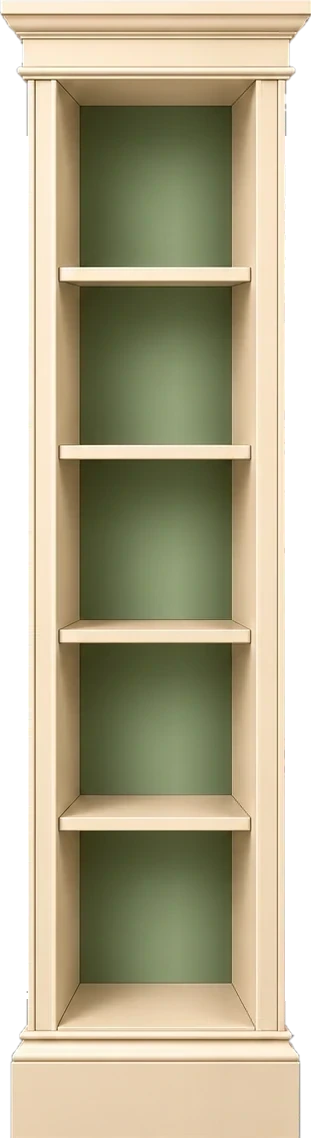
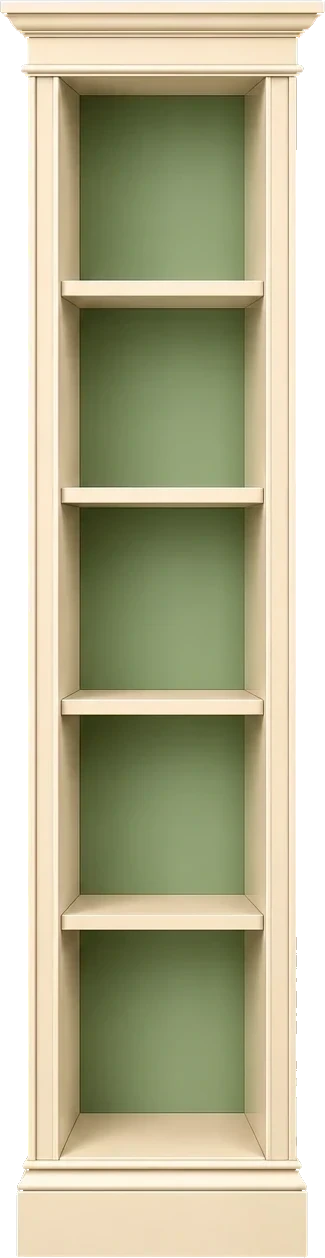
Neues Lady-Regal in der Bauart der Serie, gleich breit wie Gentleman; Gentleman-Papier und -Klemmbrett neu (2.3.3)

diff --git a/index.html b/index.html
@@ -729,7 +729,7 @@ html.theme-retreat .tb-day-head{ color:var(--rt-sage-d); }
   background-repeat:repeat, no-repeat; background-origin:border-box, border-box; background-clip:content-box, border-box; padding:var(--pt) var(--ps) var(--pb); box-sizing:border-box; }
 .tb-page.type-grid:not(.type-titel){ background-image:var(--pat), var(--paper); background-size:auto, auto, 100% 100%; background-position:var(--patp), 0 0; background-repeat:repeat, repeat, no-repeat; background-origin:border-box, border-box, border-box; background-clip:content-box, content-box, border-box; }
 .tb-page.tb-land-page:not(.type-titel){ --pt:calc(84px * var(--tbk)); --pb:calc(84px * var(--tbk)); --ps:calc(64px * var(--tbk)); --paper:url(img/mw2/paper-l.webp); }
-html.theme-biz .tb-page:not(.type-titel){ --paper:url(img/rl2/paper-p.webp); } html.theme-biz .tb-page.tb-land-page:not(.type-titel){ --paper:url(img/rl2/paper-l.webp); }
+html.theme-biz .tb-page:not(.type-titel){ --paper:url(img/rl2/paper2-p.webp); } html.theme-biz .tb-page.tb-land-page:not(.type-titel){ --paper:url(img/rl2/paper2-l.webp); }
 html.theme-retreat .tb-page:not(.type-titel){ --paper:url(img/rt2/paper-p.webp); } html.theme-retreat .tb-page.tb-land-page:not(.type-titel){ --paper:url(img/rt2/paper-l.webp); }
 /* 31.10.2026 (wish of the user): plain paper as a choice per book – the two lines of the design's frame without the ornaments,
    drawn instead of a picture so they stay sharp. Places, widths and colours measured in the paper pictures (mw2/rl2/rt2). */
@@ -2360,7 +2360,7 @@ html.theme-retreat .lib-news{ background:#fffdf8; }
 
 <script>
 /* Bump on every published update, so it's visible at a glance whether the newest version is loaded. */
-const APP_VERSION = '2.3.2';
+const APP_VERSION = '2.3.3';
 /* Design (since 1.80.0, see the small script in <head>): in "Business" (BIZ) the gold paper icons are swapped for plain line
    icons (img/icons-rl/*.svg) wherever they appear – also in everything drawn later – so the rest of the code stays as it is. */
 // A Lady's Conservatory (1.84.0, named so since 1.86.1; key 'retreat' and RETREAT stay): light, cream and forest green; until its own pictures come it uses those of A Gentleman's Study (with the
@@ -7051,9 +7051,11 @@ function habitToggleWeek(id, mondayKey){
    a divider, 3 weekly rows with one wide box. The app only writes the title, the days, the names and the ticks onto it, at the
    places measured in each picture (CLIP_GEO, in % of the picture: box columns and rows, name lines [x0, x1, y], wide boxes
    [x0, x1, y0, y1], the line under the head). The same sheet is the week page in the diary. */
-const CLIP_GEO = {"mw2": {"ar": 0.679, "cols": [51.34, 56.39, 61.47, 66.44, 71.36, 76.36, 81.31], "rows": [37.88, 42.08, 46.31, 50.62, 54.9, 59.22, 63.56, 67.93], "box": 3.66, "names": [[17.21, 46.88, 38.99], [17.21, 46.88, 43.15], [17.21, 46.88, 47.38], [17.21, 46.88, 51.68], [17.21, 46.88, 55.98], [17.21, 46.88, 60.31], [17.21, 46.88, 64.64], [17.31, 46.88, 69.07], [17.21, 46.88, 76.86], [17.31, 46.88, 81.63], [17.21, 46.88, 86.53]], "wide": [[49.46, 82.0, 74.01, 77.37], [49.46, 82.0, 78.78, 82.2], [49.46, 82.0, 83.75, 87.11]], "head": 34.08}, "rl2": {"ar": 0.635, "cols": [52.43, 58.18, 63.87, 69.52, 75.16, 80.85, 86.55], "rows": [33.69, 38.11, 42.5, 46.89, 51.31, 55.79, 60.25, 64.7], "box": 3.9, "names": [[11.71, 47.15, 34.76], [11.71, 47.15, 39.15], [11.71, 47.15, 43.57], [11.71, 47.15, 47.99], [11.71, 47.15, 52.41], [11.71, 47.15, 56.8], [11.71, 47.15, 61.22], [11.71, 47.15, 65.61], [11.71, 47.15, 75.05], [11.71, 47.15, 80.68], [11.71, 47.15, 86.37]], "wide": [[50.32, 88.19, 72.07, 75.95], [50.32, 88.19, 77.63, 81.65], [50.32, 88.19, 83.39, 87.27]], "head": 28.06}, "rt2": {"ar": 0.6275, "cols": [52.19, 58.09, 63.96, 69.73, 75.45, 81.23, 87.06], "rows": [33.52, 37.95, 42.38, 46.74, 51.17, 55.64, 60.1, 64.56], "box": 4.06, "names": [[10.91, 46.31, 34.63], [10.91, 46.31, 38.99], [10.91, 46.31, 43.39], [10.91, 46.31, 47.79], [10.91, 46.31, 52.15], [10.91, 46.31, 56.64], [10.91, 46.31, 61.07], [10.91, 46.31, 65.44], [10.91, 46.2, 74.87], [10.91, 46.2, 80.23], [12.41, 46.2, 85.7]], "wide": [[49.52, 88.88, 71.88, 75.77], [49.52, 88.88, 77.25, 81.14], [49.52, 88.88, 82.82, 86.78]], "head": 28.62}};
+const CLIP_GEO = {"mw2": {"ar": 0.679, "cols": [51.34, 56.39, 61.47, 66.44, 71.36, 76.36, 81.31], "rows": [37.88, 42.08, 46.31, 50.62, 54.9, 59.22, 63.56, 67.93], "box": 3.66, "names": [[17.21, 46.88, 38.99], [17.21, 46.88, 43.15], [17.21, 46.88, 47.38], [17.21, 46.88, 51.68], [17.21, 46.88, 55.98], [17.21, 46.88, 60.31], [17.21, 46.88, 64.64], [17.31, 46.88, 69.07], [17.21, 46.88, 76.86], [17.31, 46.88, 81.63], [17.21, 46.88, 86.53]], "wide": [[49.46, 82.0, 74.01, 77.37], [49.46, 82.0, 78.78, 82.2], [49.46, 82.0, 83.75, 87.11]], "head": 34.08}, "rl2": {"ar": 0.6354, "cols": [52.43, 58.18, 63.86, 69.51, 75.16, 80.85, 86.55], "rows": [33.75, 38.17, 42.56, 46.96, 51.37, 55.86, 60.29, 64.75], "box": 3.9, "names": [[11.71, 47.15, 34.75], [11.71, 47.15, 39.18], [11.71, 47.15, 43.6], [11.71, 47.15, 48.02], [11.71, 47.15, 52.45], [11.71, 47.15, 56.87], [11.71, 47.15, 61.29], [11.71, 47.15, 65.72], [11.71, 47.15, 75.03], [11.71, 47.15, 80.73], [11.71, 47.26, 86.43]], "wide": [[50.21, 88.29, 72.12, 75.94], [50.21, 88.29, 77.68, 81.77], [50.21, 88.29, 83.45, 87.33]], "head": 28.08}, "rt2": {"ar": 0.6275, "cols": [52.19, 58.09, 63.96, 69.73, 75.45, 81.23, 87.06], "rows": [33.52, 37.95, 42.38, 46.74, 51.17, 55.64, 60.1, 64.56], "box": 4.06, "names": [[10.91, 46.31, 34.63], [10.91, 46.31, 38.99], [10.91, 46.31, 43.39], [10.91, 46.31, 47.79], [10.91, 46.31, 52.15], [10.91, 46.31, 56.64], [10.91, 46.31, 61.07], [10.91, 46.31, 65.44], [10.91, 46.2, 74.87], [10.91, 46.2, 80.23], [12.41, 46.2, 85.7]], "wide": [[49.52, 88.88, 71.88, 75.77], [49.52, 88.88, 77.25, 81.14], [49.52, 88.88, 82.82, 86.78]], "head": 28.62}};
 const clipDir = ()=>RETREAT ? 'rt2' : BIZ ? 'rl2' : 'mw2';
-const clipSrc = ()=>'img/' + clipDir() + '/clipboard2.webp';
+const CLIP_FILE = { mw2:'clipboard2', rl2:'clipboard3', rt2:'clipboard2' }; // 1.11.2026: new Gentleman clipboard (new name against old caches)
+const clipName = ()=>clipDir() + '/' + CLIP_FILE[clipDir()];
+const clipSrc = ()=>'img/' + clipName() + '.webp';
 const HB_CHECK = '<svg viewBox="0 0 24 24" aria-hidden="true"><path d="M4 13.5l5 5L20.5 5"/></svg>';
 function habitSheetHtml(monday, pageIdx){
   const d = t(), H = habitsOf(state), g = CLIP_GEO[clipDir()], board = pageIdx === null, lang = state.settings.lang === 'de' ? 'de-DE' : 'en-GB';
@@ -7514,16 +7516,16 @@ function tbSpineHtml(key){
    the narrow book part on the left (NARROW) and the trophy part on the right (SHELVES), cut at the middle post so they join exactly.
    The rows end in the middle of each board; above eye level the board's front edge lies over the trophies (fronts). */
 const SHELF_ROWS2 = [[7.5, 23], [23.9, 39.3], [39.9, 55.8], [56.8, 72.6], [74.2, 89.9]];
-const SHELF_ROWS_RT = [[9.3, 24.4], [24.7, 39.8], [40.1, 55.5], [55.8, 71.4], [71.8, 88]]; // A Lady's Conservatory, cream bookcase (25.10.2026)
+const SHELF_ROWS_RT = [[7.5, 23], [23.5, 39.4], [39.9, 55.4], [55.9, 71.7], [72.2, 89.1]]; // A Lady's Conservatory, cream bookcase of the shelf series (1.11.2026, rt2/shelf3)
 const SHELVES = {
   dusty:{ img:'mw2/shelf-dusty', fronts:'mw2/shelf-dusty-fronts', aspect:501 / 1279, roof:1.8, x:[0.8, 88.4], rows:SHELF_ROWS2 }, // with cobwebs (the first two active days)
   clean:{ img:'mw2/shelf', fronts:'mw2/shelf-fronts', aspect:501 / 1279, roof:1.8, x:[0.8, 88.4], rows:SHELF_ROWS2 },
   ivy:{ img:'mw2/shelf-ivy', fronts:'mw2/shelf-ivy-fronts', aspect:501 / 1280, roof:1.8, x:[0.8, 88.4], rows:SHELF_ROWS2 },
   rl:RETREAT
-    ? { img:'rt2/shelf', fronts:'rt2/shelf-fronts', aspect:640 / 1138, roof:1.8, x:[2.5, 87.7], rows:SHELF_ROWS_RT } // 25.10.2026: cream and green
+    ? { img:'rt2/shelf3', fronts:'rt2/shelf3-fronts', aspect:496 / 1258, roof:1.8, x:[0.8, 88.5], rows:SHELF_ROWS_RT } // 1.11.2026: cream and green, same perspective and width as the other bookcases
     : { img:'rl2/shelf', fronts:'rl2/shelf-fronts', aspect:504 / 1278, roof:1.8, x:[0.8, 89.3], rows:SHELF_ROWS2 },
   rlPlant:{ img:'rl2/shelf-plant', fronts:'rl2/shelf-plant-fronts', aspect:480 / 1279, roof:1.8, x:[0.8, 88.8], rows:SHELF_ROWS2 }, // A Gentleman's Study from level 3: with the monstera
-  rtPlain:{ img:'rt2/shelf', fronts:'rt2/shelf-fronts', aspect:640 / 1138, roof:1.8, x:[2.5, 87.7], rows:SHELF_ROWS_RT }
+  rtPlain:{ img:'rt2/shelf3', fronts:'rt2/shelf3-fronts', aspect:496 / 1258, roof:1.8, x:[0.8, 88.5], rows:SHELF_ROWS_RT }
 };
 // the cobwebs stay for the first two active days (since 1.83.0; before: one), from the 3rd the shelf is clean, ivy from level 3
 /* The narrow bookcase (1.81.0): as soon as the diaries no longer fit into the top compartment, a narrow bookcase of the same
@@ -7535,7 +7537,7 @@ const NARROW = {
   clean:{ img:'mw2/shelf-narrow', fronts:'mw2/shelf-narrow-fronts', aspect:332 / 1279, x:[16.3, 90.4], k:332 / 501, ov:0 },
   ivy:{ img:'mw2/shelf-ivy-narrow', fronts:'mw2/shelf-ivy-narrow-fronts', aspect:337 / 1280, x:[16.6, 90.5], k:337 / 501, ov:0, plant:{ img:'mw2/ivy', w:19.6, over:11.9 } },
   rl:RETREAT
-    ? { img:'rt2/shelf-narrow', fronts:'rt2/shelf-narrow-fronts', aspect:311 / 1138, x:[25.7, 94.9], k:311 / 640, ov:0 }
+    ? { img:'rt2/shelf3-narrow', fronts:'rt2/shelf3-narrow-fronts', aspect:325 / 1258, x:[17.8, 90.2], k:325 / 496, ov:0 }
     : { img:'rl2/shelf-narrow', fronts:'rl2/shelf-narrow-fronts', aspect:330 / 1278, x:[15.2, 91.5], k:330 / 504, ov:0 },
   rlPlant:{ img:'rl2/shelf-plant-narrow', fronts:'rl2/shelf-plant-narrow-fronts', aspect:324 / 1279, x:[13.9, 91.4], k:324 / 480, ov:0, plant:{ img:'rl2/plant', w:61.1, over:12.3 } }
 };
@@ -7608,7 +7610,7 @@ function tbRenderLibrarySimple(){
   // 2.3.2 (wish of the user): book part + trophy part with the middle taken out (middle post and most of the trophy compartment),
   // the left part joined to the right end – the perspective is right (left and right inner wall as seen from the front), same width as the
   // book part; x[1] = inner right wall measured in the new pictures. Never a plant here (no ivy, no monstera – only the clean book part)
-  const SIMPLE_XR = { rl2:83.7, mw2:82.5, rt2:74.7 };
+  const SIMPLE_XR = { rl2:83.7, mw2:82.5, rt2:82.5 };
   const key = BIZ ? 'rl' : 'clean', SH = SHELVES[key], N0 = NARROW[key], dir = RETREAT ? 'rt2' : BIZ ? 'rl2' : 'mw2';
   const d = t(), NS = { img:dir + '/shelf-simple2', fronts:dir + '/shelf-simple2-fronts', aspect:N0.aspect, x:[N0.x[0], SIMPLE_XR[dir]] };
   SHELF_X = SH.x; SHELF_ROWS = SH.rows;
@@ -7623,7 +7625,7 @@ function tbRenderLibrarySimple(){
   const bookHtml = b=>b.plus ? `<button class="shelf-book shelf-new" style="width:${b.w}cqh;height:${b.h}cqh" onclick="tbNewBookAsk()" title="${d.diaryNewBook}" aria-label="${d.diaryNewBook}">${ico('plus')}</button>`
     : tbSpineHtml(b.key).replace(/style="width:\d+px;height:\d+px;/, `style="width:${b.w.toFixed(1)}cqh;height:${b.h}cqh;`);
   const clipRow = (()=>{ for(let i = Math.floor(SHELF_ROWS.length / 2); i < SHELF_ROWS.length; i++) if(!(rows[i] || []).length) return i; return -1; })();
-  const clipImg = clipDir() + '/clipboard2';
+  const clipImg = clipName();
   const clipHtml = `<button class="lib-clipboard" onclick="habitOpen()" title="${escapeHtml(d.habitTitle)}" aria-label="${escapeHtml(d.habitTitle)}">${clipImg ? `<img src="img/${clipImg}.webp" alt="">` : clipboardSvg()}</button>`;
   return `<div class="lib-simple"><div class="shelf-img shelf-narrow lib-simple-shelf" style="background-image:url(img/${NS.img}.webp);aspect-ratio:${NS.aspect.toFixed(4)}">${SHELF_ROWS.map(([y0, y1], i)=>
       `<div class="shelf-comp shelf-comp-books" style="left:${NS.x[0]}%;width:${NS.x[1] - NS.x[0]}%;top:${y0}%;height:${y1 - y0}%">${(rows[i] || []).map(bookHtml).join('')}${i === clipRow ? clipHtml : ''}</div>`).join('')}${NS.fronts ? `<div class="shelf-fronts" aria-hidden="true" style="background-image:url(img/${NS.fronts}.webp)"></div>` : ''}</div></div>
@@ -7803,7 +7805,7 @@ function tbRenderLibrary(){
   // 28.10.2026 (wish of the user): the clipboard (habit tracker) leans in the middle compartment of the book part – or the next free one below
   const clipRow = (()=>{ const mid = Math.floor(SHELF_ROWS.length / 2); for(let i = mid; i < SHELF_ROWS.length; i++) if(!(narrowRows[i] || []).length) return i; return -1; })();
   // pictures of the user for A Mystery World and A Gentleman's Study (28.10.2026); A Lady's Conservatory keeps the drawn one until hers comes
-  const clipImg = clipDir() + '/clipboard2';
+  const clipImg = clipName();
   const clipHtml = `<button class="lib-clipboard" onclick="habitOpen()" title="${escapeHtml(d.habitTitle)}" aria-label="${escapeHtml(d.habitTitle)}">${clipImg ? `<img src="img/${clipImg}.webp" alt="">` : clipboardSvg()}</button>`;
   const narrowHtml = NAR ? `<div class="shelf-img shelf-narrow" style="background-image:url(img/${NS.img}.webp);aspect-ratio:${NS.aspect.toFixed(4)}">${SHELF_ROWS.map(([y0, y1], i)=>
       `<div class="shelf-comp shelf-comp-books" style="left:${NS.x[0]}%;width:${NS.x[1] - NS.x[0]}%;top:${y0}%;height:${y1 - y0}%">${(narrowRows[i] || []).map(bookHtml).join('')}${i === clipRow ? clipHtml : ''}</div>`).join('')}${NS.fronts ? `<div class="shelf-fronts" aria-hidden="true" style="background-image:url(img/${NS.fronts}.webp)"></div>` : ''}${NS.plant ? `<img class="shelf-plant" src="img/${NS.plant.img}.webp" alt="" style="width:${NS.plant.w}%;left:${NS.plant.over - NS.plant.w}%">` : ''}</div>` : '';
@@ -8372,7 +8374,7 @@ function tbRenderCover(){
 // the cover can be designed while a diary is new (until it is opened for the first time); afterwards only in the library
 /* 29.10.2026 (wish of the user): the diary page is now called library; on top a switch diary · habits. Closed, the other tool
    always peeks out a little from behind: the clipboard behind the book cover, the book behind the clipboard. */
-function clipPeekHtml(){ const im = clipDir() + '/clipboard2'; return im ? `<img src="img/${im}.webp" alt="">` : clipboardSvg(); }
+function clipPeekHtml(){ const im = clipName(); return im ? `<img src="img/${im}.webp" alt="">` : clipboardSvg(); }
 function tbRenderHabits(){
   const d = t(), diary = tbEnsureYear(tbYear);
   return `<div class="tb-cover-wrap tb-habits-wrap"><div class="tb-stack tb-stack-habits">

diff --git a/CLAUDE.md b/CLAUDE.md
@@ -11,7 +11,7 @@ Der Nutzer ist kein Entwickler. Erkläre Schritte einfach und auf Deutsch.
 eWolfe ist **kein Ein-Personen-Projekt**: Die Nutzerin hatte beim Bau große Hilfe (Betreiber: eWolfe GbR). Nie als Werk einer einzelnen
 Person beschreiben (auch nicht im Ältestenrat, in Analysen oder Präsentationen); wer zum Team gehört, nicht raten.
 
-## Übergabe – Stand 1.11.2026 abends (Version 2.3.2) – zuerst lesen
+## Übergabe – Stand 1.11.2026 abends (Version 2.3.3) – zuerst lesen
 - **Neuer Rechner (seit 31.10.2026):** Repo liegt in `~/Documents/GitHub/k9vk58y99f-max.github.io-ewolfe-app-`, Branch `main`, Git-Name
   `k9vk58y99f-max`, E-Mail `k9vk58y99f@privaterelay.appleid.com` (global). **Claude kann von hier nicht pushen** (keine GitHub-Anmeldung im
   Terminal): committen, dann bittet man den Nutzer, in **GitHub Desktop** (liegt auf dem Schreibtisch) auf „Push origin“ zu klicken. Danach prüfen:
@@ -20,7 +20,8 @@ Person beschreiben (auch nicht im Ältestenrat, in Analysen oder Präsentationen
   dann neu anlegen: `python3 -m venv …; pip install playwright pillow numpy scipy opencv-python-headless; python -m playwright install chromium webkit`).
   App über `python3 -m http.server 8765` laden, nicht `file://`. **Immer auch in WebKit (Safari) testen** – der Nutzer arbeitet auf iPad/iPhone,
   mehrere Fehler (Umbruch, Kartengröße, Lebensrad-Text) gab es nur in Safari.
-- **Skripte** für Bilder: `~/Desktop/eWolfe-Skripte/` (`shoescale.py`, `align2.py`, `shadows.py`, `dresses.py` – siehe 2.2.4/2.2.5 unten).
+- **Sammelordner** (seit 1.11.2026 in iCloud): `~/Library/Mobile Documents/com~apple~CloudDocs/Claude/Claude Code/Lebensrad APP/` – darin `eWolfe-Skripte/` (Bild-Skripte), `eWolfe-Präsentationen/` (Präsentation, Ordner `veraltet/`), `Skripte (29.10.2026)/` (cutclip, measure …), Eingangsordner mit ChatGPT-Bildern. Übergaben (Handoffs): `…/Claude Code/HandOff/`.
+- **Skripte** für Bilder: `Lebensrad APP/eWolfe-Skripte/` (`shoescale.py`, `align2.py`, `shadows.py`, `dresses.py` – siehe 2.2.4/2.2.5 unten).
 - **Diese Sitzung erledigt (2.2.0–2.2.5):** eine geführte Seite pro Tag, Umbruch nach 18 Zeilen auch in Safari, schlichtes Papier mit Doppellinie,
   Gewohnheiten-Woche im Tagebuch ohne Klemmbrett, Woche ab Sonntag, Impulskarten klein gespeichert (Ursache „Tagebuch voll“: Safari-PNGs à 1,1–1,6 MB),
   Speicheranzeige, Lady-Eingabefelder verdeckten das Papier, Bilder nicht kopierbar, iPad-Hochformat (Klemmbrett/Cover), Konto-Symbol überall fest,
@@ -28,7 +29,7 @@ Person beschreiben (auch nicht im Ältestenrat, in Analysen oder Präsentationen
 - **2.3.0 (nach dem KI-Ältestenrat):** Bibliothek „Raum / Schlicht“, Trophäen- und Rang-Meldungen nur noch leise in der Bibliothek,
   Konto löschen in den Einstellungen (Supabase-Funktion `delete_own_account`), Fehler behoben: Bibliothek in A Mystery World auf Deutsch stürzte seit 2.2.3 ab.
   **2.3.1:** schlichtes Regal symmetrisch (Ecken gespiegelt), dort nie eine Pflanze. **2.3.2:** schlichtes Regal stattdessen aus Bücher- und
-  Trophäenteil zusammengefügt (perspektivisch richtig), „Schneiderbüste“ statt „Puppe“. **Stand 1.11.2026 abends: 2.3.0 ist live, 2.3.1 und 2.3.2 sind
+  Trophäenteil zusammengefügt (perspektivisch richtig), „Schneiderbüste“ statt „Puppe“. **2.3.3:** neues Lady-Regal, neues Gentleman-Papier und -Klemmbrett. **Stand 1.11.2026 abends: 2.3.0 ist live, 2.3.1–2.3.3 sind
   committet, aber noch nicht gepusht** → Nutzer bitten, in GitHub Desktop „Push origin“ zu klicken, dann Live-Version prüfen.
 - **KI-Ältestenrat (Skill `ki-aeltestenrat`, persönlich):** Nutzer schickt Fragen gern durch den Rat und will **lange, ausführliche** Antworten
   (alle Rollen ausführlich, App-Analyse mit Zahlen). Ergebnisse dieser Sitzung:
@@ -176,7 +177,7 @@ Person beschreiben (auch nicht im Ältestenrat, in Analysen oder Präsentationen
 - Veröffentlicht über **GitHub Pages** aus diesem Repository (Branch `main`, Ordner `/`):
   https://k9vk58y99f-max.github.io/k9vk58y99f-max.github.io-ewolfe-app-/
 - Ein Commit + Push auf `main` ist die Veröffentlichung; nach 1–2 Minuten ist es live.
-- Bei jeder Änderung `APP_VERSION` erhöhen (aktuell `2.3.2`) und `APP_BUILD` anpassen.
+- Bei jeder Änderung `APP_VERSION` erhöhen (aktuell `2.3.3`) und `APP_BUILD` anpassen.
   Die Version steht unten in der App.
 
 ## Neu seit 1.55.0 (iPad, Wischen, Tagebuch, Sticker, Impulskarten)
@@ -826,7 +827,7 @@ Vor jedem Push: Syntax prüfen und die betroffenen Abläufe testen. Daten des Nu
     Aufbau). Ein Schuh 38 in dieser Ansicht ≈ 18 cm hoch (≈ 125 px), Stiefelette ≈ 150 px, Ballerina ≈ 95 px. Verkleinert: Schleifen-Slingbacks ×0,82,
     Military-Stiefel ×0,9, grüne Budapester-Wedges ×0,81 (Schleifen bleiben ganz). Navy-Wedges (+7 %) und alle anderen (±5 %) unverändert.
     Skript `shoescale.py` (GrabCut trennt Schuh und Mahagoni-Ständer, `WOODBG=1` wenn der Schuh nicht rot ist, `LACES=1` nimmt Schnürsenkel/Schleifen
-    mit, Füße darunter per `cv2.inpaint`), Kopie in `~/Desktop/eWolfe-Skripte/`. Übersicht nummeriert: `dresses.py` (ebenda).
+    mit, Füße darunter per `cv2.inpaint`), Kopie in `Lebensrad APP/eWolfe-Skripte/`. Übersicht nummeriert: `dresses.py` (ebenda).
 - **2.2.5 (1.11.2026) Lady-Puppen bereinigt und gleich gestellt (vom Nutzer markiert):**
   - Graue Schatten aus den Fotos entfernt (unter dem Saum der grünen Bluse, Rechteck hinter dem Navy-Ständer, „Pfeil“ unter dem Knauf der
     Slingbacks, Grau zwischen den Jeansbeinen): `shadows.py` (geringe Sättigung, mittleres Grau, berührt Transparenz, nur y 600–958, nie auf
@@ -835,7 +836,7 @@ Vor jedem Push: Syntax prüfen und die betroffenen Abläufe testen. Daten des Nu
     Weiß bestickt (1020), Matrosen-Jeans (1010) standen tiefer (größere Puppe): Figur und Ständer ×0,951/0,919/0,946/0,955 um die Mitte oben
     verkleinert, Schuhe bleiben unverändert an ihrem Platz (`align.py`/`align2.py`: Schuhe per GrabCut in engen Rahmen je Schuh, Ständerfüße/Beine/Knauf
     als feste „kein Schuh“-Flecken; `BOXONLY=1` wenn Schuh und Ständer dieselbe Farbe haben; alte Umrisse und Schattenreste werden entfernt).
-    Skripte in `~/Desktop/eWolfe-Skripte/`. Neue Kleiderbilder künftig gleich so prüfen (Füße auf 965, Schuhe davor, keine grauen Schatten).
+    Skripte in `Lebensrad APP/eWolfe-Skripte/`. Neue Kleiderbilder künftig gleich so prüfen (Füße auf 965, Schuhe davor, keine grauen Schatten).
 - **2.3.0 (1.11.2026) Schlichte Bibliothek, leise Meldungen, Konto löschen (Wünsche des Nutzers nach dem KI-Ältestenrat):**
   - **Bibliothek: Raum / Schlicht** (`state.settings.libView`, je Gerät; `libSimple`, `setLibView`, `libViewSegHtml`): Umschalter unter dem Regal und in den
     Einstellungen (Abschnitt „Bibliothek“, `renderLibViewSettings`). Schlicht = `tbRenderLibrarySimple`: nur der Bücherteil des Regals des Designs (`NARROW.clean`
@@ -852,17 +853,29 @@ Vor jedem Push: Syntax prüfen und die betroffenen Abläufe testen. Daten des Nu
   - Behoben: In `I18N.de` hatte ein `//`-Kommentar (2.2.3) `glowRanks` verschluckt – Bibliothek in A Mystery World auf Deutsch stürzte ab.
   - Test: `t230.py` im Scratchpad (Chromium + WebKit, drei Designs, iPad 820 und Handy 390, nachgebautes Supabase).
 - **2.3.1 (1.11.2026) Schlichtes Regal symmetrisch (Wunsch des Nutzers):** eigene Bilder `img/<mw2|rl2|rt2>/shelf-simple(-fronts).webp` = linke Hälfte von
-  `shelf-narrow` plus ihr Spiegelbild (beide Ecken gleich; Skript `mirror.py`, Kopie in `~/Desktop/eWolfe-Skripte/`), Fächer `x:[x0, 100 − x0]`.
+  `shelf-narrow` plus ihr Spiegelbild (beide Ecken gleich; Skript `mirror.py`, Kopie in `Lebensrad APP/eWolfe-Skripte/`), Fächer `x:[x0, 100 − x0]`.
   **Im schlichten Regal steht nie eine Pflanze** (kein Efeu, keine Monstera, kein Tischchen) – auch nicht auf höheren Stufen.
 - **2.3.2 (1.11.2026) Schlichtes Regal perspektivisch richtig (Idee des Nutzers):** `img/<mw2|rl2|rt2>/shelf-simple2(-fronts).webp` (neuer Name gegen alte
   Zwischenspeicher; `shelf-simple` von 2.3.1 entfernt, Kopie im Ordner „veraltet“). Bücherteil + Trophäenteil nebeneinander, die Mitte (Mittelwand und der
   Großteil des Trophäenfachs) herausgenommen, linker Teil an den rechten Abschluss gesetzt, Naht im Fach 48 px überblendet; Breite = Bücherteil
   (Schnitt links bei 250/250/200 px). So sieht man links die linke und rechts die rechte Innenwand. Rechte Fachgrenze `SIMPLE_XR` in
-  `tbRenderLibrarySimple` (rl2 83,7 · mw2 82,5 · rt2 74,7). Lady: grauer Freistell-Saum an den Pfosten entfernt. Skripte in `~/Desktop/eWolfe-Skripte/`:
+  `tbRenderLibrarySimple` (rl2 83,7 · mw2 82,5 · rt2 seit 2.3.3 82,5). Lady: grauer Freistell-Saum an den Pfosten entfernt. Skripte in `Lebensrad APP/eWolfe-Skripte/`:
   `schlicht-zusammen.py`, `schlicht-rand.py`, `schlicht-kante.py`; Test `t232.py` (Chromium + WebKit, drei Designs, 820 und 390).
   Texte: überall „Schneiderbüste“ statt „Puppe“ (Wunsch des Nutzers; en „tailor’s bust“ mit typografischem Apostroph – ein gerader würde den String brechen).
-  **Offen:** Das cremefarbene Lady-Regal (`rt2/shelf`, seit 25.10.) stammt nicht aus der gemeinsamen Regal-Serie vom 21.10.: andere Perspektive,
-  Trophäenteil 640 statt ~450 px breit (Lady-Regal in der Bibliothek ~28 % breiter). Prompt für ein neues Bild: Desktop „eWolfe-Präsentationen“.
+  Das cremefarbene Lady-Regal vom 25.10. stammte nicht aus der Regal-Serie (andere Perspektive, ~28 % breiter) – in 2.3.3 ersetzt.
+- **2.3.3 (1.11.2026) Neues Lady-Regal, Gentleman-Papier und -Klemmbrett (Bilder des Nutzers, Eingang 01.11.2026):**
+  - **Lady-Regal** in Creme mit Salbei-Rückwand in der Bauart der Serie (gleiche Perspektive: in jedem Fach nur die äußere Innenwand sichtbar):
+    freigestellt mit `cutclip.py`, an der Mittelwand geschnitten (Pfosten 310–341 px im Freisteller), dann je ein Streifen aus der Fachmitte genommen
+    (17 px Bücherteil, 25 px Trophäenteil), damit Bücher- und Trophäenteil **genau so breit sind wie beim Gentleman** (Wunsch des Nutzers):
+    `rt2/shelf3-narrow` 325×1258 (`x:[17.8, 90.2]`), `rt2/shelf3` 496×1258 (`x:[0.8, 88.5]`), `k` 325/496; Bodenkanten der oberen zwei Böden
+    `rt2/shelf3(-narrow)-fronts`; `SHELF_ROWS_RT` neu gemessen (grüne Rückwand endet am Boden, Reihe endet 0,8 % tiefer). Schlichtes Lady-Regal daraus
+    neu (`rt2/shelf-simple2`, Schnitt bei 240 px, `SIMPLE_XR.rt2` 82,5). Alte `rt2/shelf*` entfernt (Kopie im Ordner „veraltet“). Das Regal mit Vitrine
+    ab einem Jahr (`rt2/sv-*`) ist noch das alte cremefarbene – passendes Bild bestellt (Prompt in `eWolfe-Präsentationen/`).
+  - **Gentleman-Tagebuchpapier** mit schlichteren Ecken: `rl2/paper2-p|l` (gleiche Größe und Rahmenlage wie vorher, CSS-Ränder unverändert).
+  - **Gentleman-Klemmbrett** `rl2/clipboard3` (Dateiname je Design über `CLIP_FILE`/`clipName()`), `CLIP_GEO.rl2` neu gemessen (`measure.py`, kaum Abweichung).
+  - Neue Dateinamen gegen alte Zwischenspeicher; alte Bilder `rl2/paper-p|l`, `rl2/clipboard2` entfernt (Kopie „veraltet“).
+  - Test `t233.py` (Chromium + WebKit, 820/390: Lady Raum + schlicht, Gentleman Raum, Gewohnheiten, Tagebuchseite, Mystery schlicht), Skripte
+    `lady_schneiden.py`, `streifen.py`, `messen_regal.py` in `Lebensrad APP/eWolfe-Skripte/`.
 - **Noch offen (Datenschutz):** Speicher-Erinnerung (80 %/90 %), verschlüsseltes Backup + monatliche Erinnerung, IndexedDB statt localStorage, Fotos einzeln
   im Supabase-Speicher; Platzhalter der Datenschutzerklärung füllen und rechtlich prüfen lassen; AVV und SMTP bei Supabase.
 
